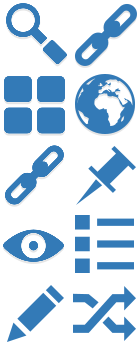
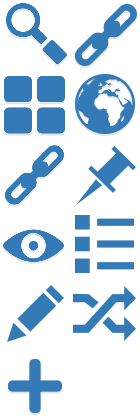
首页略修改

diff --git a/WebContent/resources/carousel.css b/WebContent/resources/carousel.css
@@ -60,20 +60,37 @@ body {
   height: 500px;
 }
 .carousel-caption.caption1{
-	bottom: 60px;
-	left: 15%;
-	width: 450px;
-	text-align: left;
+	top:0;
+	left: 0;
+	width: 100%;
+	height: 100%;
 	background-color: rgba(0,0,0,0.5);
-	padding: 5px 5px;
 }
-
+.caption1 h1 {
+	text-align: center;
+	margin: 200px auto 0;
+}
+.caption1 p {
+	text-align: center;
+}
 /* MARKETING CONTENT
 -------------------------------------------------- */
 
 /* Center align the text within the three columns below the carousel */
 .marketing {
 	margin-bottom: 100px;
+}
+.marketing .title{
+	text-align: center;
+	width: 150px;
+	height: 50px;
+	background-color: #337AB7;
+	color: white;
+	font-size: 26px;
+	line-height: 50px;
+	border-radius: 4px;
+	margin: 30px 0;
+	
 }
 .marketing .col-lg-4 {
   margin-bottom: 20px;
@@ -90,7 +107,7 @@ body {
 .marketing .function-item {
 	border: 1px solid #bad6e1;
 	border-radius: 2px; 
-	width: 17%;
+	width: 23%;
 	margin: 0 1%;
 	text-align: center;
 }
@@ -123,7 +140,9 @@ body {
 .icon-revision {
 	background-position: 0 -280px;
 }
-
+.icon-add {
+	background-position: 0 -350px;
+}
 .img-title{
 	font-size: 26px;
   
